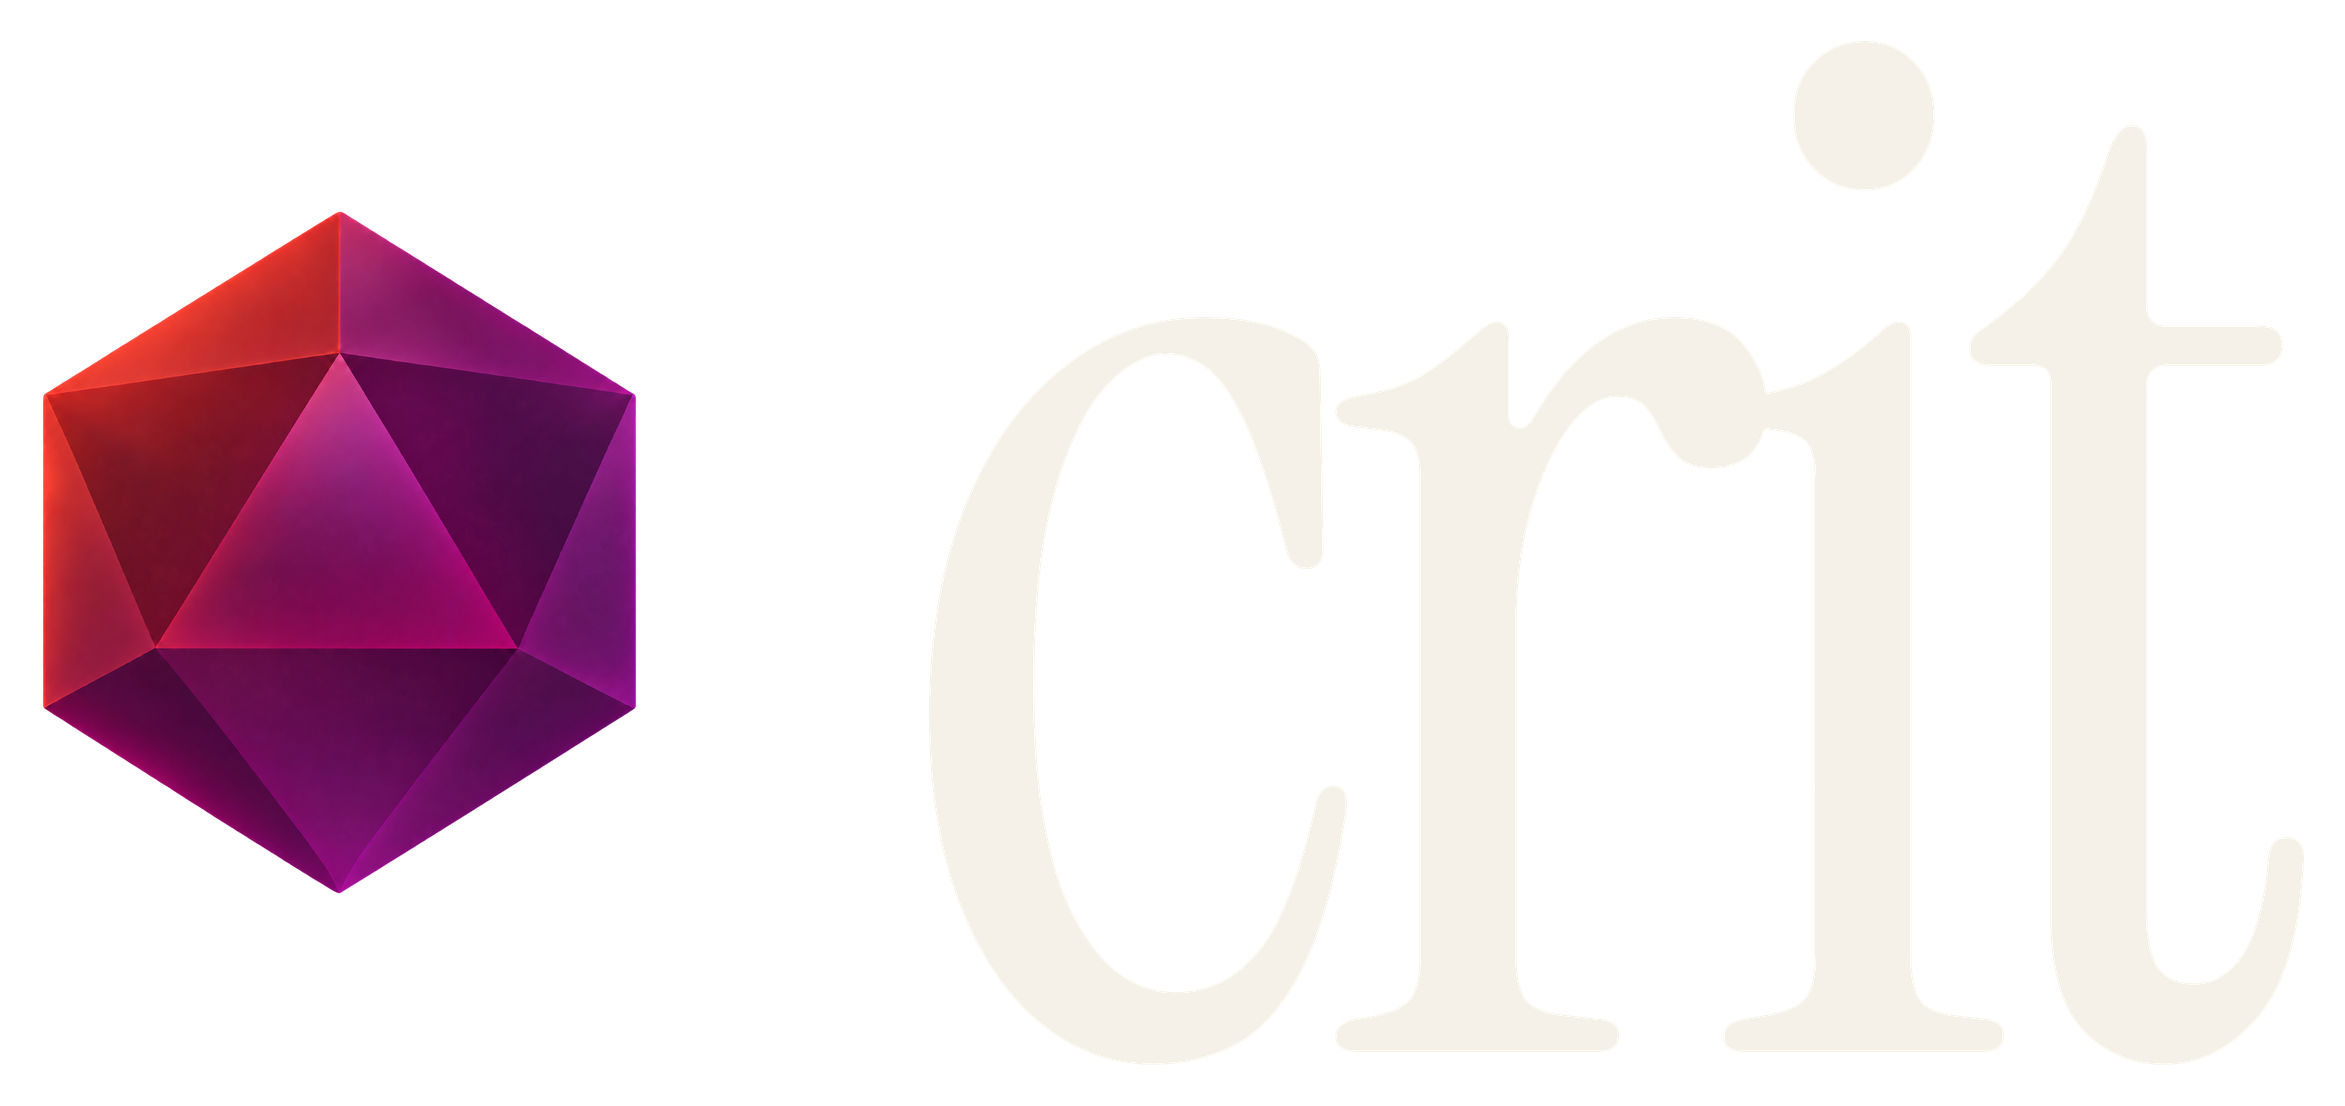
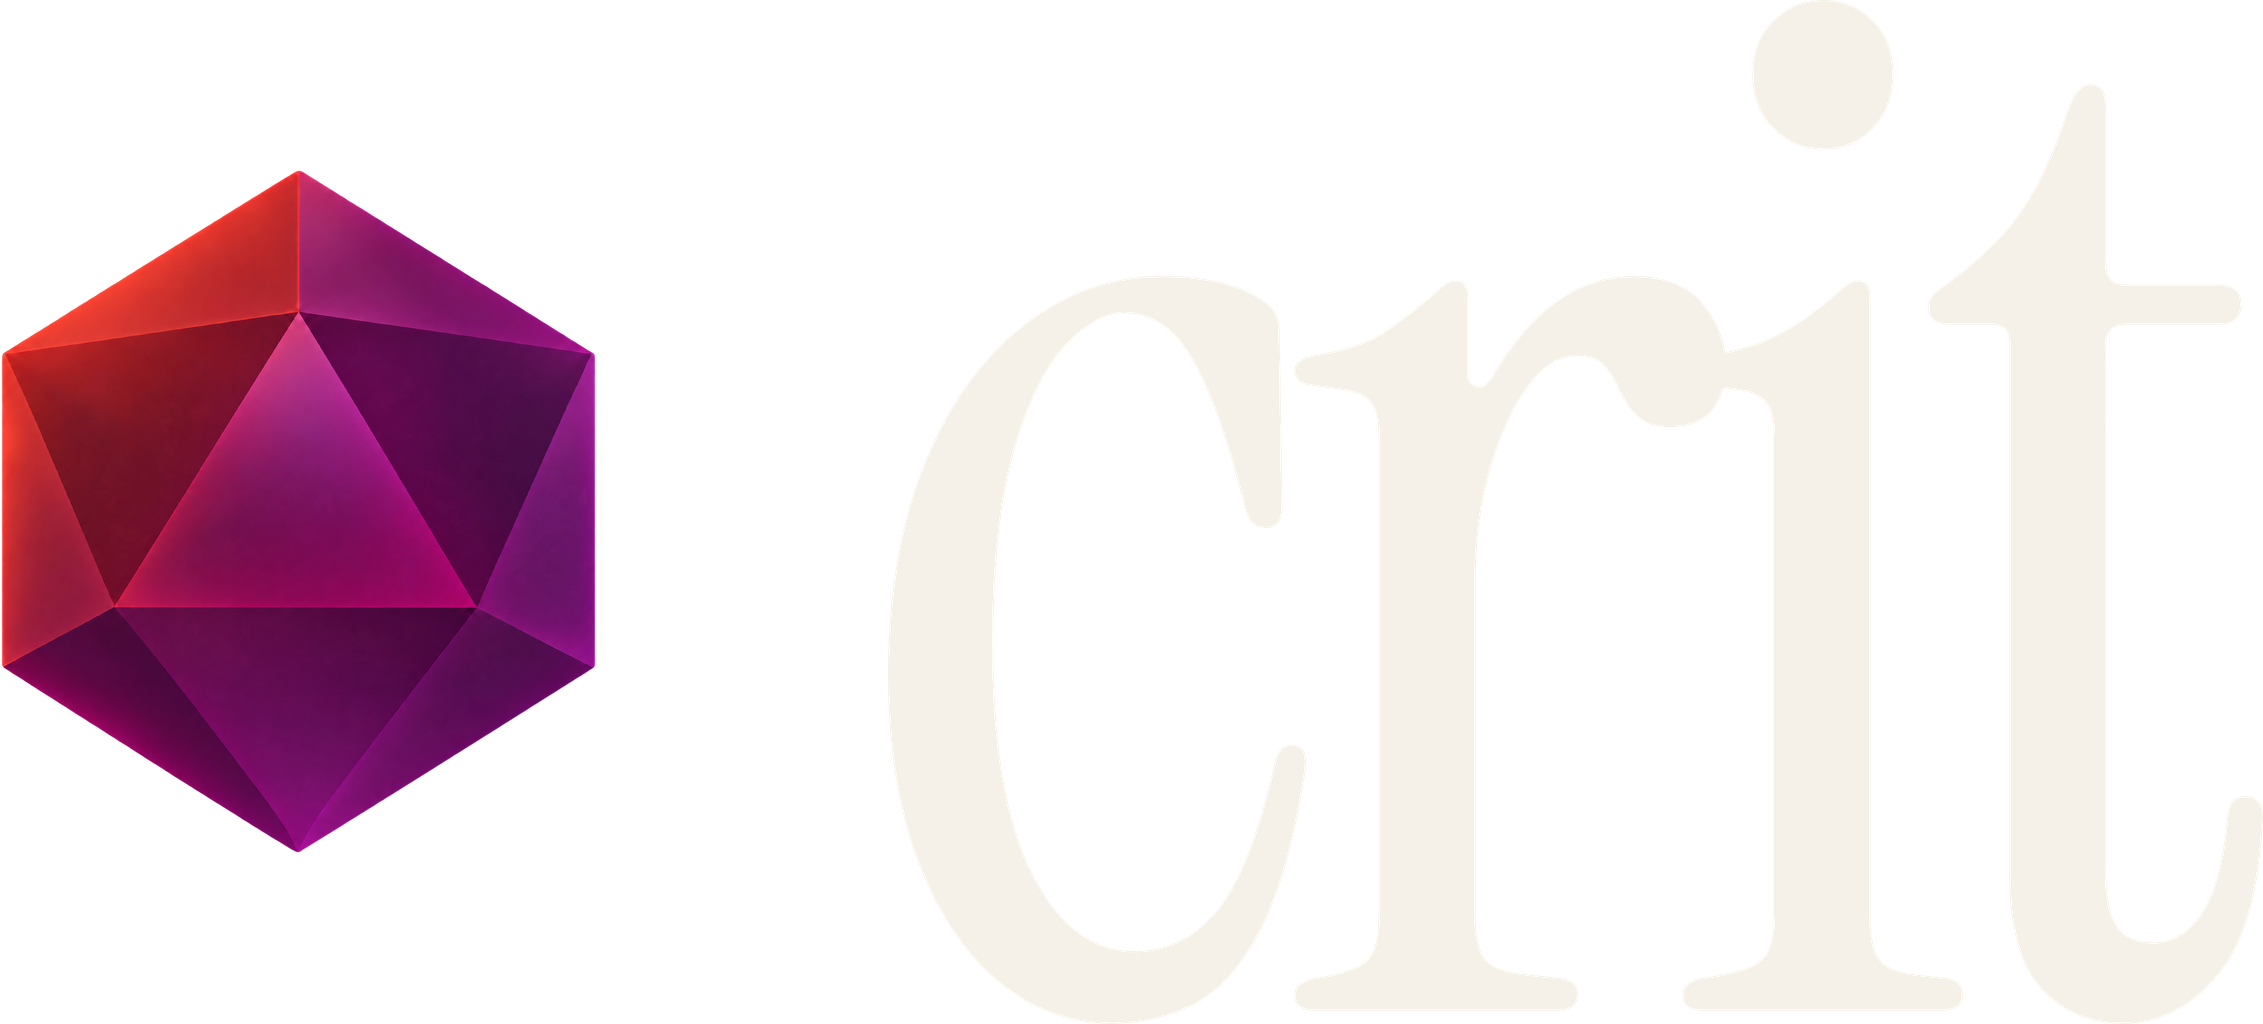
Crop the profile lockup to its ink and match the subheader width

Changed region(s): [[0.0, 0.1562, 0.2784, 0.8438], [0.1856, 0.7188, 0.2165, 0.75], [0.1856, 0.25, 0.2165, 0.2812]]

diff --git a/profile/README.md b/profile/README.md
@@ -1,7 +1,7 @@
 <picture>
   <source media="(prefers-color-scheme: dark)" srcset="https://raw.githubusercontent.com/crit-labs/.github/main/profile/assets/crit-lockup-dark.png">
   <source media="(prefers-color-scheme: light)" srcset="https://raw.githubusercontent.com/crit-labs/.github/main/profile/assets/crit-lockup-light.png">
-  <img alt="crit" src="https://raw.githubusercontent.com/crit-labs/.github/main/profile/assets/crit-lockup-dark.png" width="340">
+  <img alt="crit" src="https://raw.githubusercontent.com/crit-labs/.github/main/profile/assets/crit-lockup-dark.png" width="294">
 </picture>
 
 <samp>What if building a tailored, high-performance<br>inference engine took hours instead of weeks?</samp>
